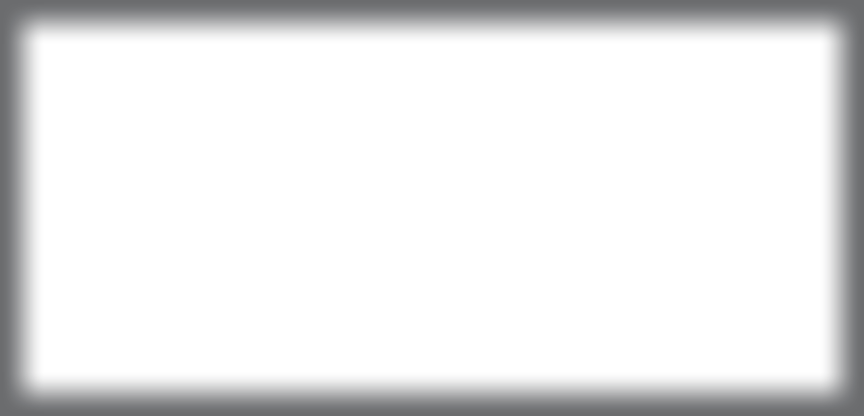
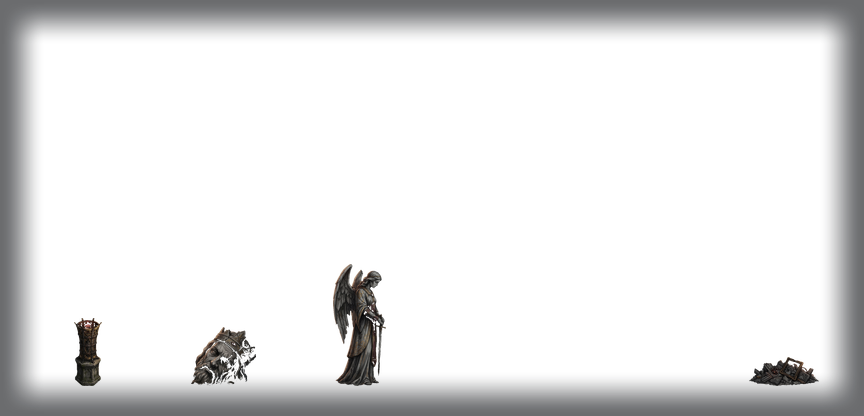
Capital decor: seven Nano Banana props stand in its 19 rooms
A broken-winged angel, armour on a stand, a weapon rack, a gilded brazier, a barricade, a fallen king's
head and rubble with a gilt frame, in ash grey with gold and crimson. Gemini's daily picture limit ended
the set at seven; the other five and the Marsh come next. dress.py: Capital room classes, wider pools so
no two rooms share a set, and zones without Midjourney backdrops re-render their painter near wall
instead of taking place.py's frame (not run yet). Decided by Claude under the standing consent; checked
on layer composites.

diff --git a/tools/midjourney/dress.py b/tools/midjourney/dress.py
@@ -1,7 +1,7 @@
 #!/usr/bin/env python3
 """Stands the painted props of a zone (Nano Banana, 2026-11-11) in its rooms, on the near layer.
 
-  python tools/midjourney/dress.py tomb|forest|village     -> every room of the zone
+  python tools/midjourney/dress.py tomb|forest|village|capital|marsh     -> every room of the zone
   python tools/midjourney/dress.py tomb room_tomb_entrance
 
 Pictures: design/levels/midjourney/<zone>/props/prop_<zone>_<name>.png, one object each on flat magenta.
@@ -16,6 +16,7 @@ ContentBuilder.RefreshLevelArt (gamedesign/LEVEL_TOOL.md, «Нарисованн
 import hashlib
 import random
 import re
+import subprocess
 import sys
 from pathlib import Path
 
@@ -71,6 +72,16 @@ PROPS = {
         "herbs": (2.2, "hang", 0.9),
         "cobweb": (1.6, "corner", 0.8),
     },
+    # 7 of 12 (2026-11-11: Gemini's daily picture limit); the rest — shields, lectern, banner, chandelier, cage
+    "capital": {
+        "angel_statue": (3.6, "stand", 0.8),
+        "armor_stand": (2.6, "stand", 1.0),
+        "weapon_rack": (1.8, "stand", 1.0),
+        "gilded_brazier": (2.2, "stand", 1.0),
+        "barricade": (1.6, "stand", 0.8),
+        "fallen_head": (1.7, "stand", 0.5),
+        "rubble": (0.9, "stand", 1.2),
+    },
 }
 # Rooms by character: what may stand there (others are skipped in that room).
 CAVE_WORDS = ("cache", "nest", "slope", "collapsed", "falls", "flooded", "drowned", "cell", "lower")
@@ -99,12 +110,19 @@ ALLOWED = {
         "arena": ["fallen_bell", "brazier", "lantern", "wayside_cross", "barrels"],
         "secret": ["jugs", "barrels", "cobweb", "herbs"],
     },
+    "capital": {
+        "open": ["angel_statue", "barricade", "fallen_head", "rubble", "gilded_brazier", "weapon_rack"],
+        "crypts": ["angel_statue", "gilded_brazier", "rubble", "armor_stand", "weapon_rack", "fallen_head"],
+        "inside": ["armor_stand", "weapon_rack", "gilded_brazier", "rubble", "angel_statue"],
+        "arena": ["angel_statue", "gilded_brazier", "armor_stand", "fallen_head", "rubble", "barricade"],
+        "secret": ["rubble", "weapon_rack", "armor_stand", "gilded_brazier", "angel_statue"],
+    },
 }
 DARKEN, DESATURATE = 0.78, 0.85  # the near wall sits behind the playfield: a step darker and duller
 SOLID = "#%"
 # big landmarks stand once in a room
 UNIQUE = {"sarcophagus", "crown_altar", "effigy_statue", "mourner_statue", "abbey_arch", "hunter_shrine",
-          "cart_wheel", "deer_skull", "well", "fallen_bell", "scarecrow", "wayside_cross", "cart"}
+          "cart_wheel", "deer_skull", "fallen_head", "angel_statue", "well", "fallen_bell", "scarecrow", "wayside_cross", "cart"}
 
 
 def parse(text):
@@ -151,7 +169,7 @@ def room_lists(zone_name):
     text = (ROOT / "design/levels/painter/looks.js").read_text(encoding="utf-8")
     start = text.find(zone_name + ": {")
     out = {}
-    for name in ("enclosed", "underground", "poison", "open", "stone"):
+    for name in ("enclosed", "underground", "poison", "open", "stone", "crypts"):
         m = re.search(name + r": \[([^\]]*)\]", text[start:]) if start >= 0 else None
         out[name] = set(re.findall(r'"([^"]+)"', m.group(1))) if m else set()
     return out
@@ -172,6 +190,11 @@ def kind_of(zone_name, room, lists):
             if room["id"] in lists[name]:
                 return name
         return "house"
+    if zone_name == "capital":
+        for name in ("crypts", "open"):
+            if room["id"] in lists[name]:
+                return name
+        return "inside"
     if any(w in room["id"] for w in CAVE_WORDS):
         return "cave"
     return "hall"
@@ -267,7 +290,7 @@ def dress(zone_name, zone, room, sprites, used_sets, lists):
         if len(placed) < budget and name not in UNIQUE:
             stand(name)
     if not placed:  # a narrow room: whatever small thing of its kind fits
-        for name in ("bone_pile", "urn", "candelabra", "mushrooms", "stump", "thorns", "jugs", "barrels"):
+        for name in ("bone_pile", "urn", "candelabra", "mushrooms", "stump", "thorns", "jugs", "barrels", "rubble"):
             if name in allowed and stand(name):
                 break
     for name in sorted(hanging, key=lambda n: rng.random()):
@@ -308,6 +331,13 @@ def main():
     sprites = Sprites(zone_name)
     used_sets = set()
     lists = room_lists(zone_name)
+    backdrops = ROOT / "design/levels/midjourney" / zone_name
+    painted = [r["id"] for r in zone["rooms"] if not any((backdrops / f"{r['id']}{e}").exists()
+                                                         for e in (".png", ".jpg", ".jpeg", ".webp"))]
+    painted = [r for r in painted if not only or r in only]
+    if painted:  # the painter's near wall, fresh, so a second run is the same
+        subprocess.run(["node", str(ROOT / "tools/level-art/render.js"), zone_name, "4",
+                        ",".join(f"{r}_near" for r in painted)], check=True)
     for room in zone["rooms"]:
         near = rooms_dir / f"{room['id']}_near.png"
         if not near.exists():
@@ -315,7 +345,8 @@ def main():
         chosen, placed = dress(zone_name, zone, room, sprites, used_sets, lists)
         if only and room["id"] not in only:
             continue
-        border(near)  # back to place.py's frame, so a second run is the same
+        if room["id"] not in painted:
+            border(near)  # back to place.py's frame, so a second run is the same
         layer = Image.open(near).convert("RGBA")
         for img, x, y in placed:
             layer.alpha_composite(img, (max(0, x), max(0, y)))

diff --git a/gamedesign/DEVELOPMENT_PLAN.md b/gamedesign/DEVELOPMENT_PLAN.md
@@ -121,7 +121,8 @@ merge-коммитом из `cloud/verified`: компиляция и `.meta` и
   Midjourney во всех 27 комнатах (`_picks.txt`); [x] бледные огоньки (`TombWisps`); [x] фактура камня, пола и уступов
   из текстур Midjourney (`LEVEL_TOOL.md`); [x] декор (§3) — 12 предметов Nano Banana, расставлены `dress.py` по 22 комнатам (2026-11-11, в игре не смотрено); мох и кости painter уже рисует (`props.js`, `drawInside`), гладкого камня `%` в уровнях нет — мрамор не нужен. Лес: [x] декор — 12 предметов Nano Banana, `dress.py forest`
   по 31 из 35 комнат (2026-11-11, в игре не смотрено). Село: [x] декор — 12 предметов, `dress.py village` по 22 из 24
-  комнат (там же). Дальше — декор Столицы и Болота.
+  комнат (там же). Столица: [~] 7 из 12 предметов по всем 19 комнатам; [ ] ещё 5 и [ ] Болото (12) — после сброса
+  дневного лимита Gemini (`MIDJOURNEY.md`, §3в).
 - [x] **Удар не останавливает героя** (просьба пользователя 2026-10-27; цифры решены Claude по постоянному согласию):
   новый `LocomotionMode.Attacking` — во время удара герой бежит с долей бега (не шага), прыжок берётся, разворот —
   нет (замах держит направление). Доли: Меч 0,9/0,85/0,75, тяжёлый 0,45; Терновый клинок 0,95/0,9/0,8/0,5;

diff --git a/gamedesign/LEVEL_TOOL.md b/gamedesign/LEVEL_TOOL.md
@@ -206,6 +206,11 @@ link room_a room_b door | oneway | ability=id | boss=id | shortcut=id from=room_
   придорожный крест со свечой, жаровня, горшки; фонарь на верёвке и пучки трав; паутина в саже. Классы — `open`
   (улицы под небом: ничего не висит) и `stone` (церковь, крипта, погреба) из `looks.js`, остальное — избы. Паутина
   во всех зонах серая: сквозь пряди просвечивал magenta.
+  **Столица** (`dress.py capital`, 7 из 12 — дневной лимит картинок Gemini кончился 2026-11-11): ангел со сломанным
+  крылом, доспех на стойке, стойка с оружием, золочёная жаровня, баррикада, упавшая голова короля, щебень с рамой;
+  классы — `open` и `crypts` из `looks.js`, остальное — залы. Зона без фонов Midjourney (Болото): её `near` — стена
+  painter, поэтому `dress.py` не ставит рамку `place.py`, а сперва перерисовывает `near` через `render.js` (не проверено
+  — Болото ещё без предметов).
 
 **Лес** (2026-10-19, макет `design/levels/forest-look`): тот же камень с мхом на канте и корнями вместо
 цепей у висящих уступов (`looks.js`, `forest`); тло — `forest-backdrop.js`: открытые комнаты — небо, луна

diff --git a/gamedesign/MIDJOURNEY.md b/gamedesign/MIDJOURNEY.md
@@ -199,6 +199,12 @@ small ember-orange accents» (`WORLD_DESIGN.md`: сепия, угли). `design/
 `barrels`, `cart`, `well`, `fence`, `fallen_bell`, `scarecrow`, `wayside_cross`, `brazier`, `jugs` (стоят), `lantern`,
 `herbs` (висят), `cobweb` (угол). Ставит `dress.py village`.
 
+**Столица** (своя беседа): «ash grey stone with dull gold and deep crimson accents». Готовы `angel_statue`,
+`armor_stand`, `weapon_rack`, `gilded_brazier`, `barricade`, `fallen_head`, `rubble`; не дорисованы (лимит Gemini до
+12.11 ~8:36) — груда щитов и шлемов, аналой с книгой на цепи, багряное знамя, люстра, клетка (висят). **Болото** —
+все 12 впереди: гнилой пень с грибами, покосившийся крест в тряпках, камыш, полузатонувшая лодка, болотный фонарь
+на шесте, тотем из костей, сети на кольях, светящиеся трутовики, котёл ведьмы; мох, бутылки-обереги, корни (висят).
+
 ## §3а. Лес — фоны комнат (35)
 
 2026-11-03, пользователь: «второй уровень — всё так же» (решено Claude по постоянному согласию). Промпты всех 35 комнат —
